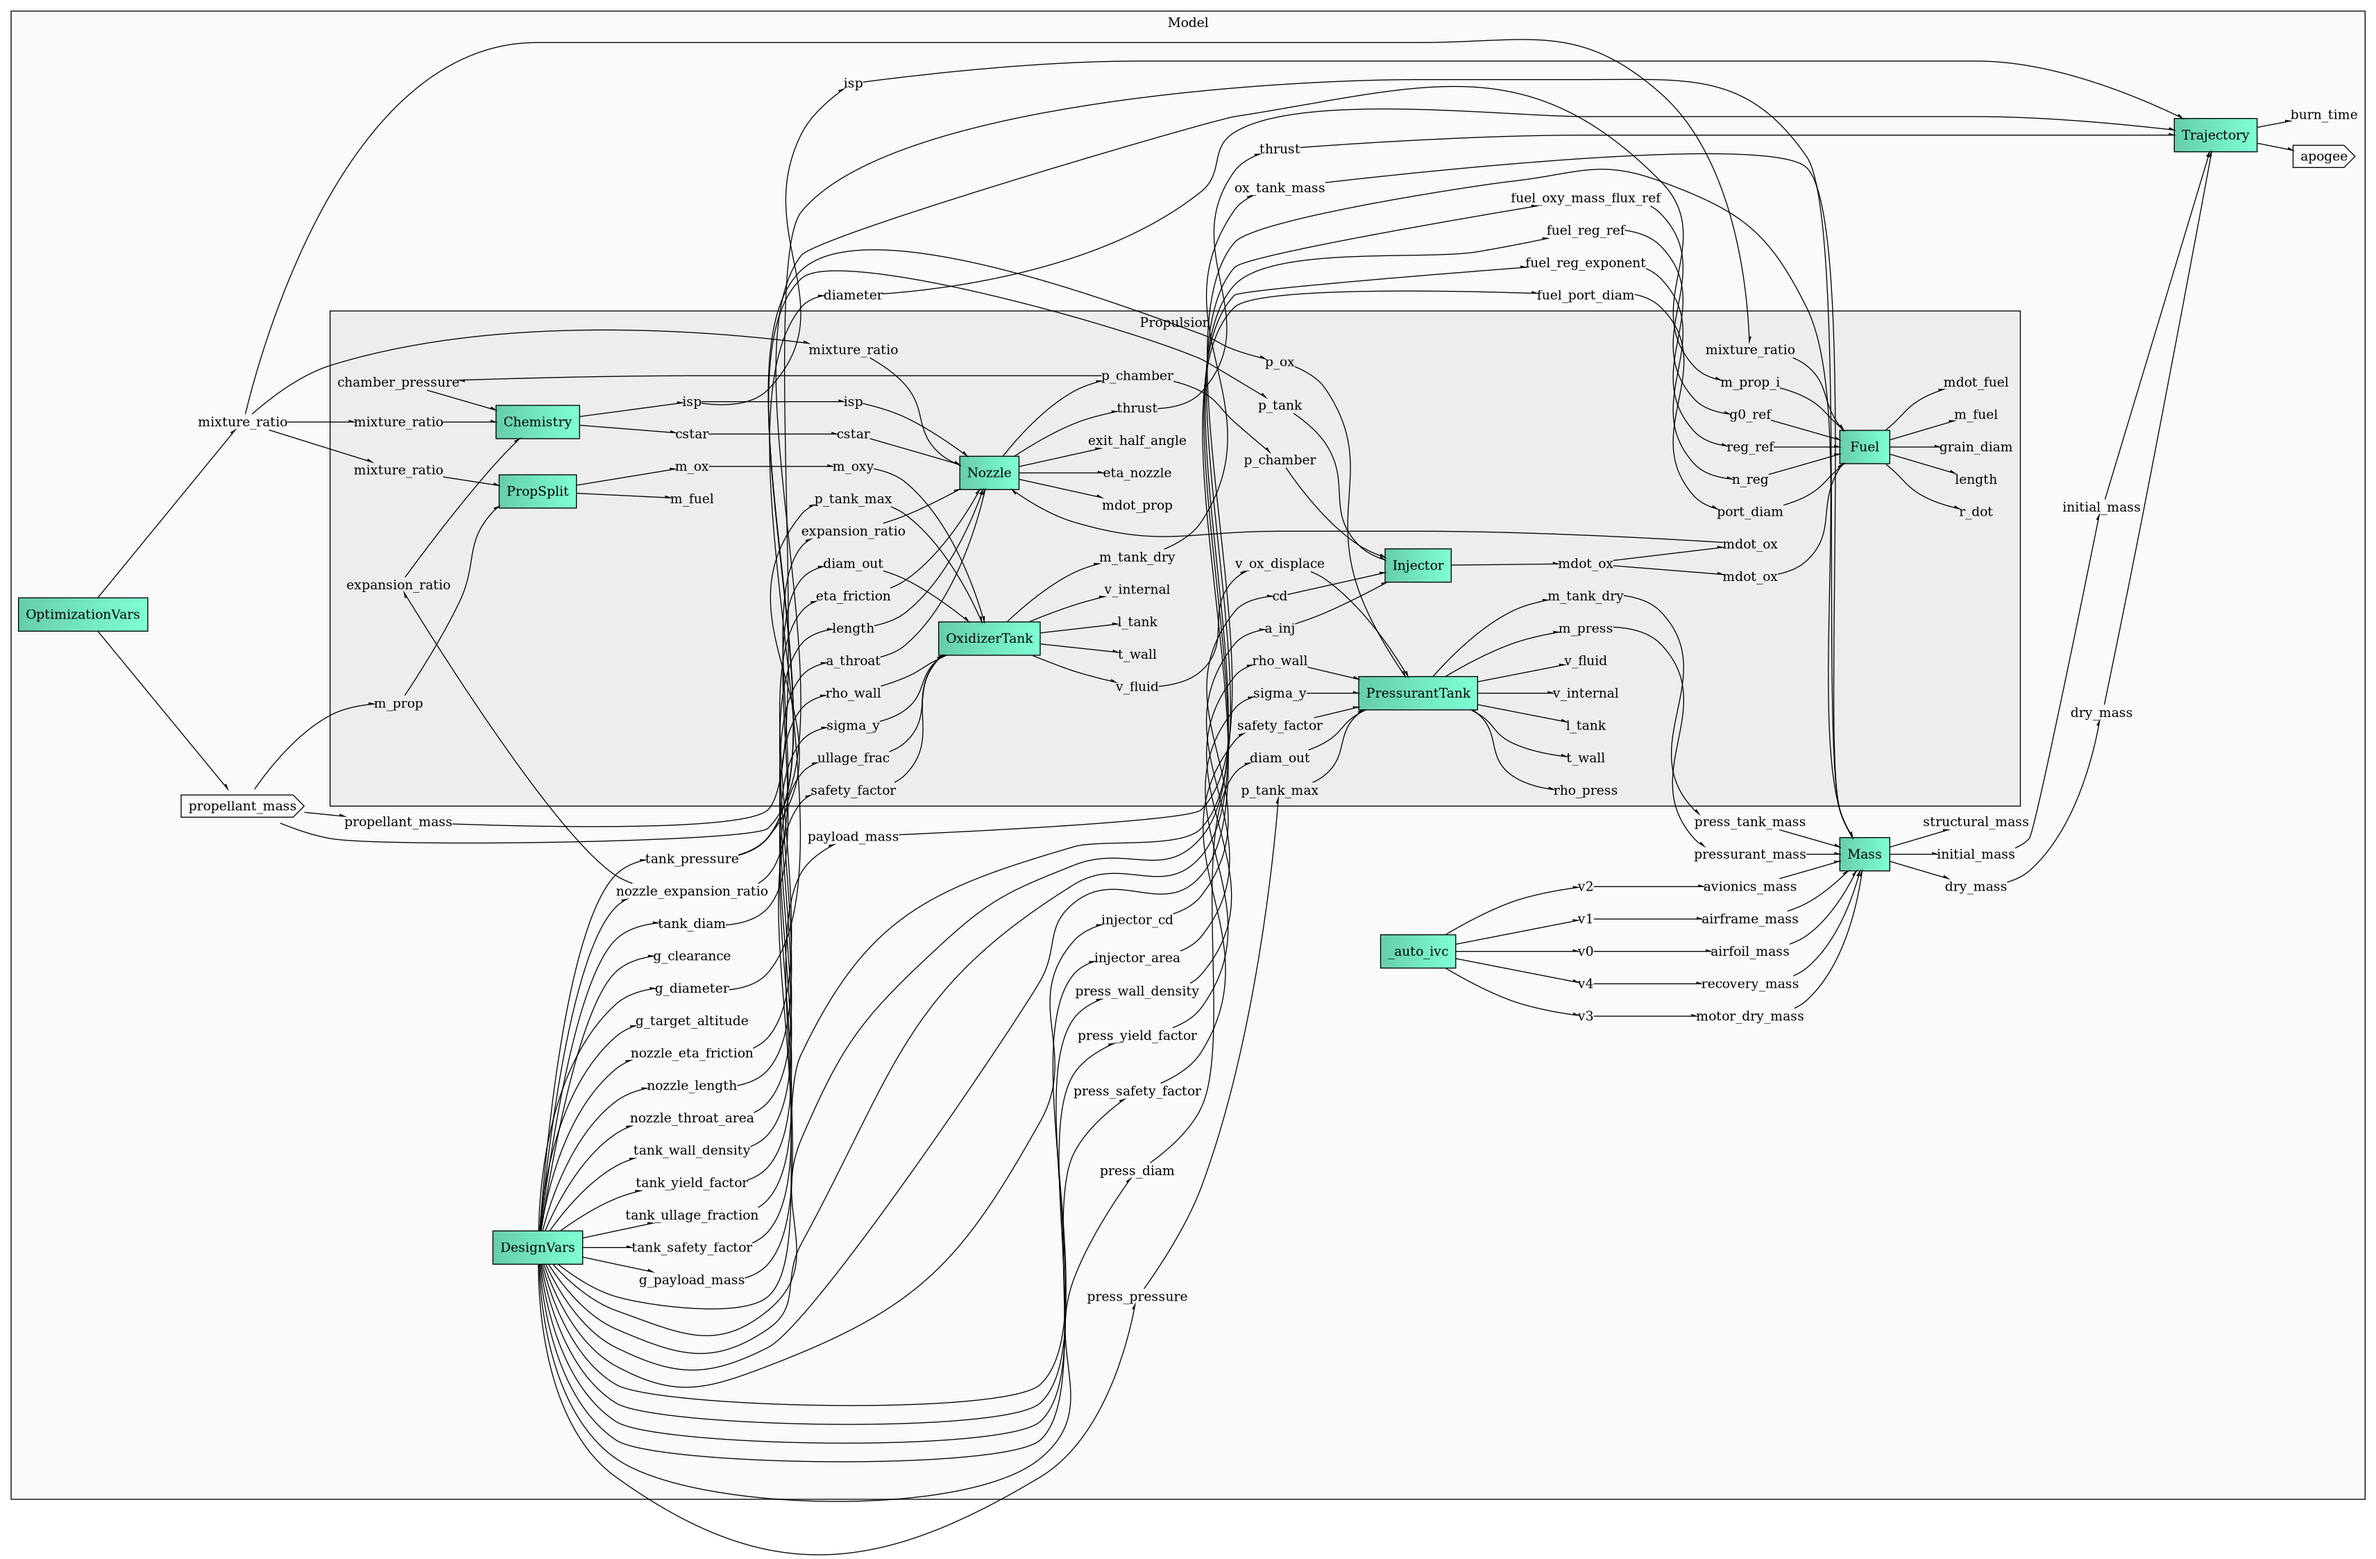
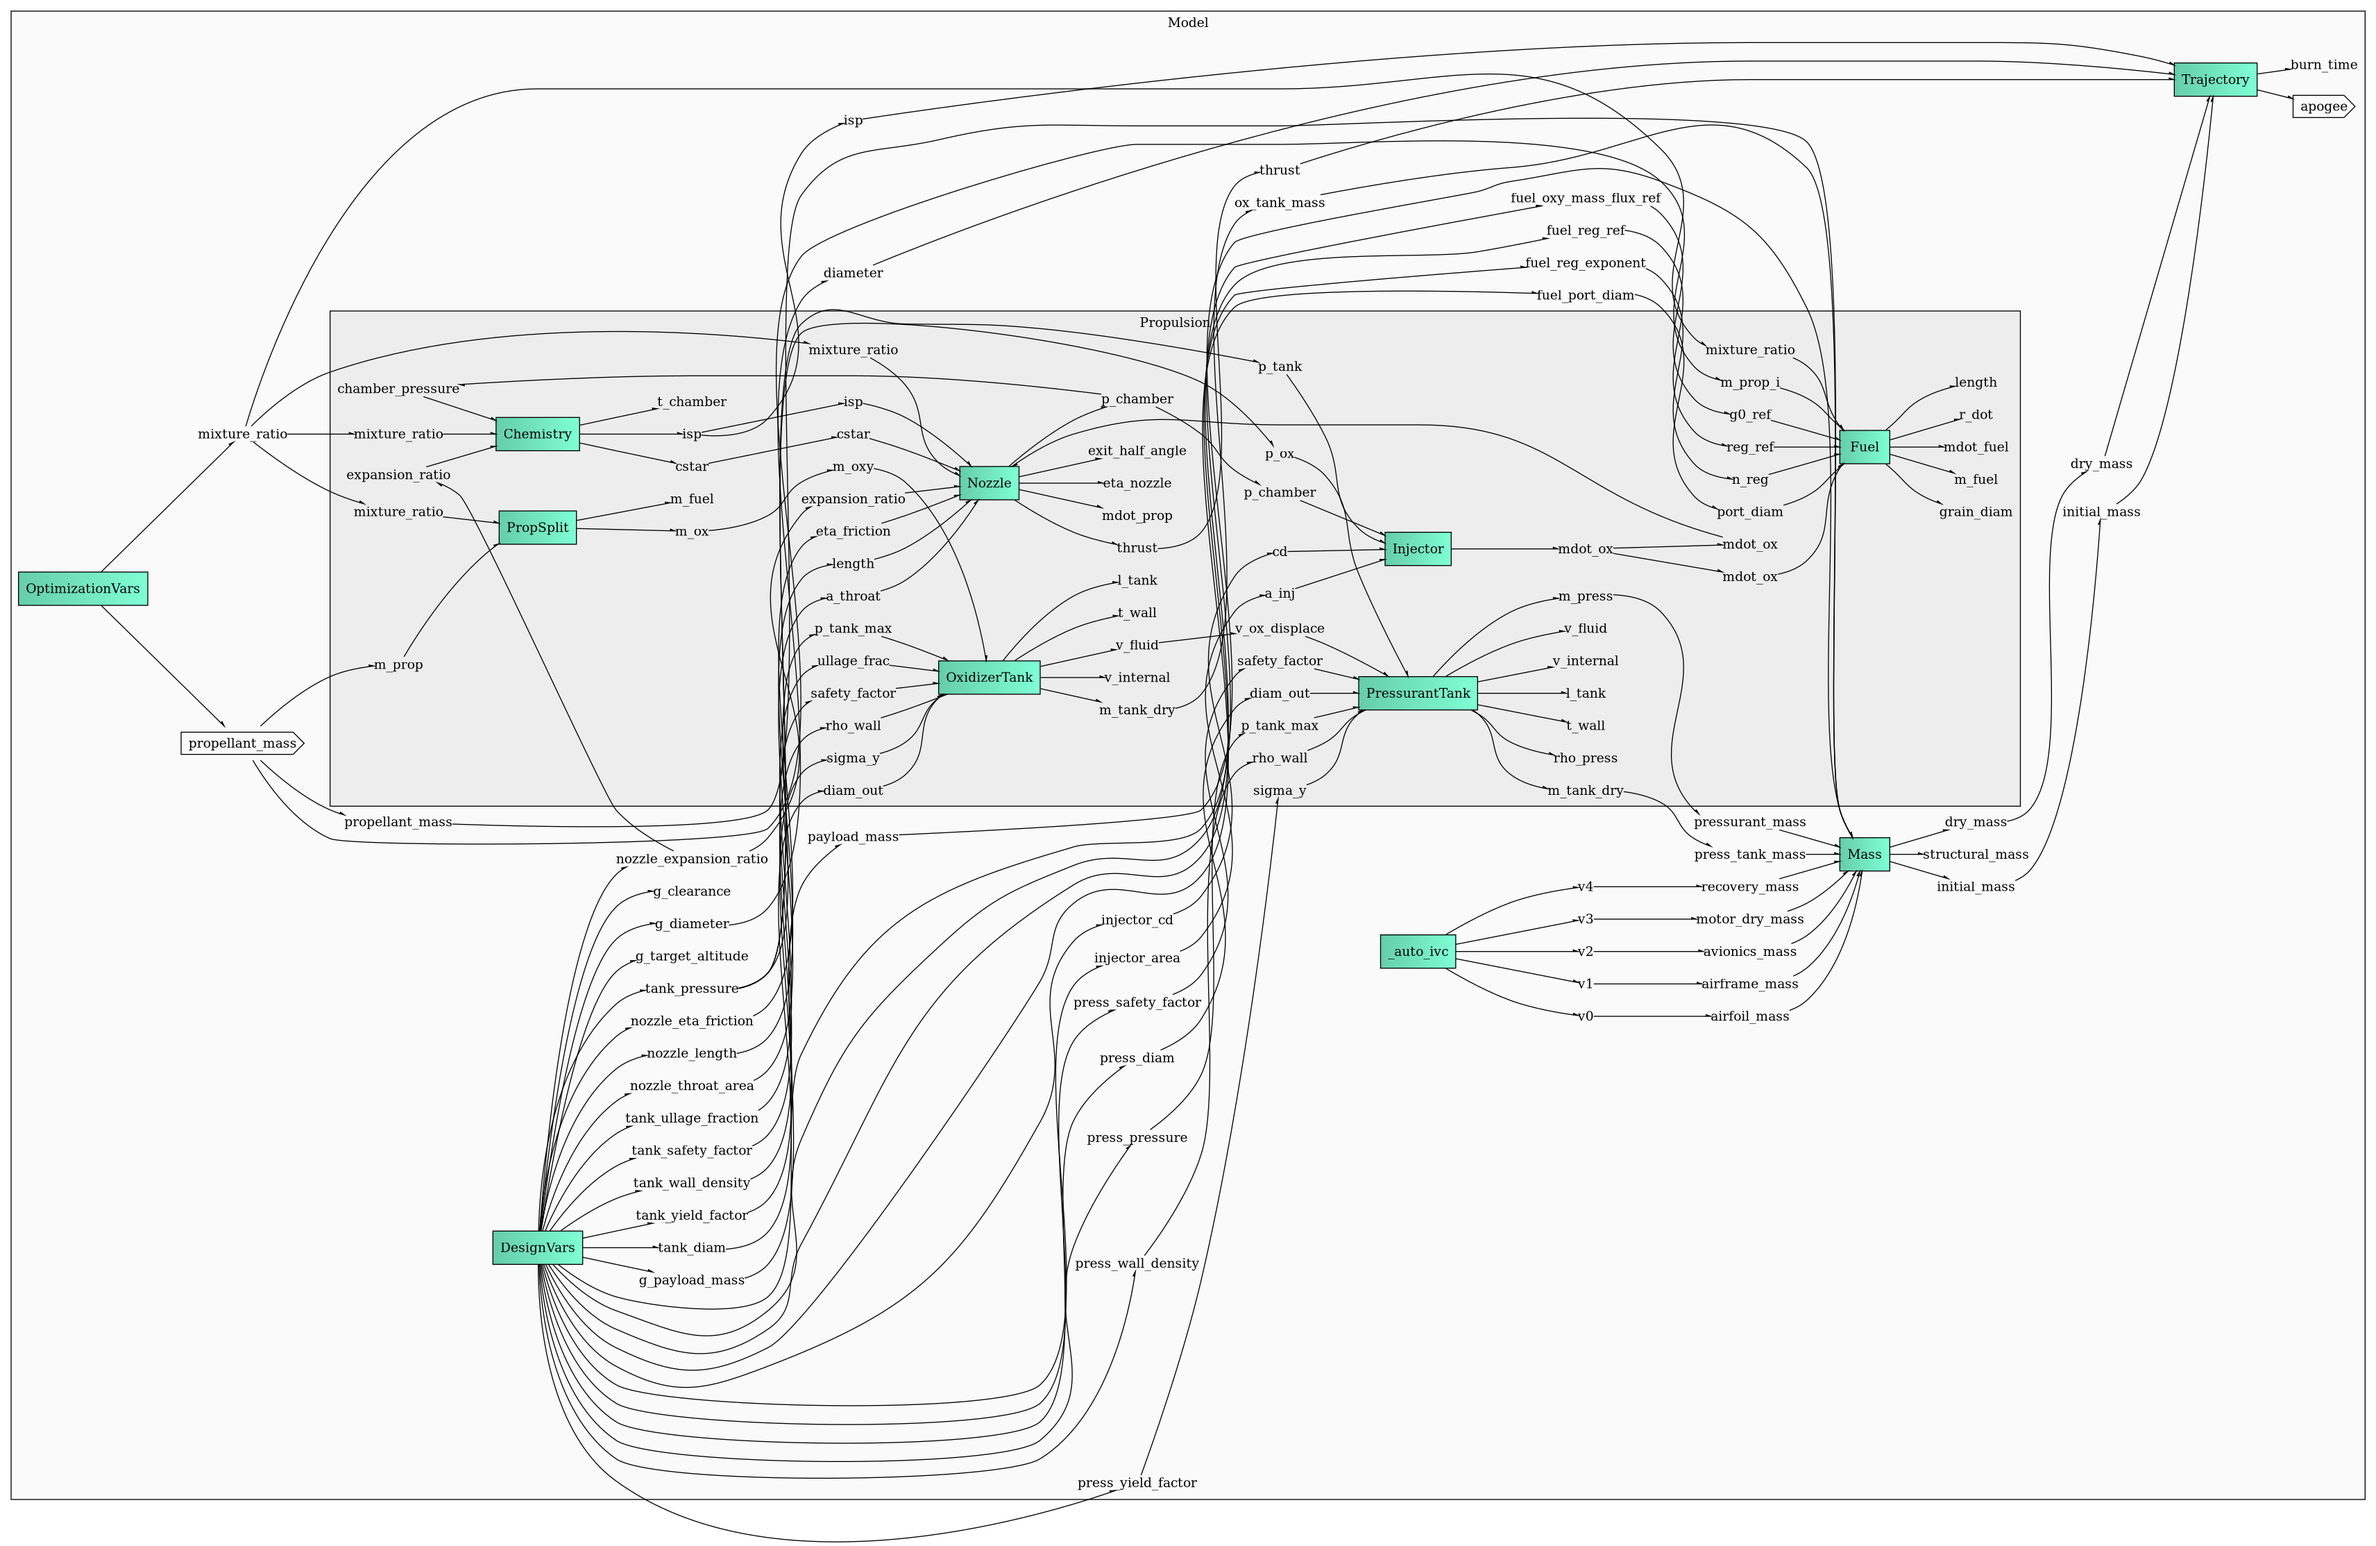
Chamber temp calculations

diff --git a/rocket-solver/modules/BEARS_Rocket/comp_chem.py b/rocket-solver/modules/BEARS_Rocket/comp_chem.py
@@ -13,12 +13,13 @@ class ChemComponent(ExplicitComponent):
 		self.add_input("mixture_ratio",    val=6.0)
 		self.add_input("expansion_ratio",  val=40.0) # Expansion area ratio
 
-		self.add_output("cstar", val=1500.0, units="m/s") # Characteristic velocity
-		self.add_output("isp",   val=120.0,  units="s")
+		self.add_output("cstar",     val=1500.0, units="m/s") # Characteristic velocity
+		self.add_output("isp",       val=120.0,  units="s")
+		self.add_output("t_chamber", val=3000.0, units="K")
 
 	def setup_partials(self):
 		self.declare_partials(
-			["isp", "cstar"],
+			["isp", "cstar", "t_chamber"],
 			["chamber_pressure", "mixture_ratio"],
 			method="fd",
 			step=1e-4,
@@ -31,15 +32,14 @@ class ChemComponent(ExplicitComponent):
 
 		cea = self.options["cea"]
 
-		# 1 Pa = 1.45038e-4 psia
-		pa_to_psia = 1.450377e-4
-
-		# 1 ft/s = 0.3048 m/s
-		fts_to_ms = 0.3048
+		pa_to_psia = 1.450377e-4 # 1 Pa = 1.45038e-4 psia
+		fts_to_ms = 0.3048       # 1 ft/s = 0.3048 m/s
 
 		pc_psia = chamber_pressure * pa_to_psia
-		cstar = cea.get_Cstar(Pc=pc_psia, MR=mixture_ratio) * fts_to_ms
-		isp = cea.get_Isp(Pc=pc_psia, MR=mixture_ratio, eps=expansion_ratio)
+		cstar   = cea.get_Cstar(Pc=pc_psia, MR=mixture_ratio) * fts_to_ms
+		isp     = cea.get_Isp(Pc=pc_psia, MR=mixture_ratio, eps=expansion_ratio)
+		tc_k    = cea.get_Tcomb(Pc=pc_psia, MR=mixture_ratio) * (5.0 / 9.0)
 
-		outputs["cstar"] = cstar
-		outputs["isp"]   = isp
+		outputs["cstar"]     = cstar
+		outputs["isp"]       = isp
+		outputs["t_chamber"] = tc_k

diff --git a/rocket-solver/modules/BEARS_Rocket/group_prop.py b/rocket-solver/modules/BEARS_Rocket/group_prop.py
@@ -114,6 +114,7 @@ class PropulsionGroup(Group):
 			],
 			promotes_outputs=[
 				("isp",             "chem_isp"),
+				("t_chamber",       "chem_chamber_temp"),
 			],
 		)
 
